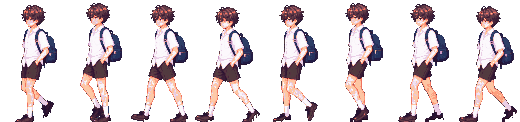
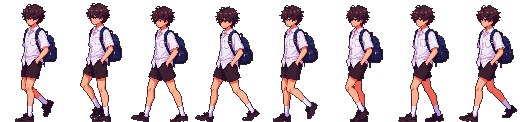
Crisper walk sprite: real idle colours, outline, intact lower shoes
Downscale by sampling cell centres instead of averaging (no blur), snap
pixels to the idle sprite's colours without boosting, redraw a 1px
outline, and squash each shoe as a whole (--shoe-scale) so soles stay
intact and in proportion.

Claude-Session: https://claude.ai/code/session_011NAKRUA9btL4iodwTEM3Dh

diff --git a/tools/import_walk_video.py b/tools/import_walk_video.py
@@ -2,13 +2,13 @@
 
 The video should show the character walking in place (camera fixed). The script
 takes one walk cycle, samples N frames from it, keys out the green, scales the
-frames down to the game's character height and matches their colours to an
-existing sprite (histogram matching per channel, then snapping to its palette),
-because generated video usually comes out darker and flatter than the still image.
+frames down to the game's character height (sampling the centre of each pixel
+cell, so edges stay crisp), matches their brightness to an existing sprite and
+snaps every pixel to that sprite's real colours, then redraws a 1px outline.
 
 Usage:
   python3 tools/import_walk_video.py VIDEO OUT.png --start 24 --cycle 32 --frames 8 \\
-      --height 122 --palette assets/characters/hero_uniform.png
+      --height 122 --palette assets/characters/hero_uniform.png --shoe-scale 0.7
 """
 import argparse
 import subprocess
@@ -24,42 +24,110 @@ def is_green(rgb):
     return (g > 120) & (g > r * 1.35) & (g > b * 1.35)
 
 
-def match_histograms(pixels, reference):
-    """Remap each RGB channel of `pixels` (N,3) so its distribution matches `reference` (M,3)."""
+def label(mask):
+    """4-connected component labelling (flood fill), like scipy.ndimage.label."""
+    labels = np.zeros(mask.shape, int)
+    n = 0
+    for y, x in zip(*np.nonzero(mask)):
+        if labels[y, x]:
+            continue
+        n += 1
+        stack = [(y, x)]
+        labels[y, x] = n
+        while stack:
+            cy, cx = stack.pop()
+            for ny, nx in ((cy + 1, cx), (cy - 1, cx), (cy, cx + 1), (cy, cx - 1)):
+                if 0 <= ny < mask.shape[0] and 0 <= nx < mask.shape[1] and mask[ny, nx] and not labels[ny, nx]:
+                    labels[ny, nx] = n
+                    stack.append((ny, nx))
+    return labels, n
+
+
+def squash_shoes(rgba, factor, band=16):
+    """Make chunky shoes lower: every shoe (dark blob near the bottom) is resampled
+    to `factor` of its height, anchored at the ankle, so its shape stays intact.
+    Returns (new rgba, rows freed at the bottom of the planted foot)."""
+    h, w = rgba.shape[:2]
+    out = rgba.copy()
+    region = np.zeros((h, w), bool)
+    region[h - band:] = True
+    dark = (rgba[..., :3].max(axis=2) < 110) & (rgba[..., 3] > 0) & region
+    labels, n = label(dark)
+    lowest = 0
+    for i in range(1, n + 1):
+        ys, xs = np.where(labels == i)
+        if len(ys) < 12:
+            continue
+        y0, y1, x0, x1 = ys.min(), ys.max() + 1, xs.min(), xs.max() + 1
+        blob = rgba[y0:y1, x0:x1].copy()
+        blob[labels[y0:y1, x0:x1] != i] = 0
+        nh = max(2, round((y1 - y0) * factor))
+        rows = (np.arange(nh) * (y1 - y0) / nh).astype(int)
+        small = blob[rows]
+        out[y0:y1, x0:x1][labels[y0:y1, x0:x1] == i] = 0
+        tgt = out[y0:y0 + nh, x0:x1]
+        m = small[..., 3] > 0
+        tgt[m] = small[m]
+        lowest = max(lowest, y0 + nh - 1)
+    shift = (h - 1) - lowest
+    shifted = np.zeros_like(out)
+    if shift > 0:
+        shifted[shift:] = out[:h - shift]
+        return shifted, shift
+    return out, 0
+
+
+def match_luminance(pixels, reference):
+    """Match the brightness distribution only (keeps each pixel's hue and saturation)."""
+    lum = lambda p: p @ np.array([0.299, 0.587, 0.114])
+    src, ref = lum(pixels), np.sort(lum(reference))
+    order = np.argsort(src)
+    ranks = np.empty_like(order)
+    ranks[order] = np.arange(len(src))
+    target = ref[(ranks * (len(ref) - 1) / max(1, len(src) - 1)).astype(int)]
+    gain = target / np.maximum(src, 1.0)
+    return np.clip(pixels * gain[:, None], 0, 255)
+
+
+def nearest_colours(pixels, palette):
+    """Snap each pixel to the closest colour that really occurs in the reference sprite."""
     out = np.empty_like(pixels)
-    for c in range(3):
-        src = pixels[:, c]
-        order = np.argsort(src)
-        ranks = np.empty_like(order)
-        ranks[order] = np.arange(len(src))
-        ref_sorted = np.sort(reference[:, c])
-        out[:, c] = ref_sorted[(ranks * (len(ref_sorted) - 1) / max(1, len(src) - 1)).astype(int)]
+    for k in range(0, len(pixels), 4096):
+        chunk = pixels[k:k + 4096]
+        d = ((chunk[:, None, :] - palette[None, :, :]) ** 2).sum(2)
+        out[k:k + 4096] = palette[d.argmin(1)]
     return out
 
 
-def flatten_soles(rgba, trim, search_rows=16):
-    """Make chunky/heeled shoes flat: in every column, cut `trim` pixels off the
-    bottom of the shoe, redraw a thin dark sole line, then shift the frame down."""
-    h, w = rgba.shape[:2]
-    out = rgba.copy()
-    dark = (out[..., :3].max(axis=2) < 95) & (out[..., 3] > 0)
-    top = h - search_rows
-    for x in range(w):
-        col = dark[top:, x]
-        if not col.any():
-            continue
-        bottom = top + int(np.where(col)[0].max())
-        run_top = bottom
-        while run_top - 1 >= top and dark[run_top - 1, x]:
-            run_top -= 1
-        if bottom - run_top + 1 <= trim + 2:
-            continue  # too thin to be a sole (toe tip, lace)
-        out[bottom - trim + 1:bottom + 1, x] = 0
-        new_bottom = bottom - trim
-        out[new_bottom, x, :3] = (out[new_bottom, x, :3] * 0.55).astype(out.dtype)  # sole edge
-    shifted = np.zeros_like(out)
-    shifted[trim:] = out[:h - trim]
-    return shifted
+def add_outline(rgba, colour_from=None, strength=0.62):
+    """Darken the outer silhouette pixels into a 1px outline like the idle sprite."""
+    a = rgba[..., 3] > 0
+    inner = a & np.roll(a, 1, 0) & np.roll(a, -1, 0) & np.roll(a, 1, 1) & np.roll(a, -1, 1)
+    edge = a & ~inner
+    out = rgba.astype(float).copy()
+    tint = np.array(colour_from if colour_from is not None else (60, 34, 52), float)
+    out[edge, :3] = out[edge, :3] * (1 - strength) + tint * strength
+    return out.astype(np.uint8)
+
+
+def block_sample(img, mask, out_w, out_h):
+    """Downscale by taking the median of the centre of each target cell (no averaging
+    across cell borders), so outlines and pixel edges stay crisp."""
+    h, w = img.shape[:2]
+    sx, sy = w / out_w, h / out_h
+    q = max(1, int(min(sx, sy) * 0.22))
+    rgb = np.zeros((out_h, out_w, 3))
+    alpha = np.zeros((out_h, out_w), bool)
+    for j in range(out_h):
+        cy = int((j + 0.5) * sy)
+        for i in range(out_w):
+            cx = int((i + 0.5) * sx)
+            ys, xs = slice(max(0, cy - q), cy + q + 1), slice(max(0, cx - q), cx + q + 1)
+            m = mask[ys, xs]
+            alpha[j, i] = m.mean() >= 0.5
+            if alpha[j, i]:
+                rgb[j, i] = np.median(img[ys, xs][m], axis=0)
+    return rgb, alpha
 
 
 def main():
@@ -71,9 +139,9 @@ def main():
     ap.add_argument("--frames", type=int, default=8, help="frames to keep from the cycle")
     ap.add_argument("--height", type=int, default=122, help="character height in game pixels")
     ap.add_argument("--palette", help="sprite whose colours the frames are snapped to")
-    ap.add_argument("--flatten-soles", type=int, default=0,
-                    help="trim this many pixels off the bottom of each shoe (thick soles/heels) "
-                         "and move the frame down by the same amount so the feet stay on the ground")
+    ap.add_argument("--shoe-scale", type=float, default=1.0,
+                    help="squash each shoe to this fraction of its height (e.g. 0.7 for chunky "
+                         "AI shoes -> flat school shoes); the frame moves down so feet stay grounded")
     args = ap.parse_args()
 
     with tempfile.TemporaryDirectory() as tmp:
@@ -90,13 +158,6 @@ def main():
     scale = args.height / (y1 - y0)
     out_w = round((x1 - x0) * scale)
 
-    pal_img = None
-    if args.palette:
-        # Representative colours of the reference sprite (opaque pixels only)
-        src = np.asarray(Image.open(args.palette).convert("RGBA"))
-        colours = src[..., :3][src[..., 3] > 0].reshape(1, -1, 3)
-        pal_img = Image.fromarray(colours.astype(np.uint8), "RGB").quantize(colors=48, method=Image.Quantize.MEDIANCUT)
-
     smalls = []
     for rgb, mask in zip(frames, masks):
         rgb = rgb[y0:y1, x0:x1].copy()
@@ -104,35 +165,33 @@ def main():
         # despill green fringe
         rgb[..., 1] = np.where(rgb[..., 1] > np.maximum(rgb[..., 0], rgb[..., 2]),
                                np.maximum(rgb[..., 0], rgb[..., 2]), rgb[..., 1])
-        img = Image.fromarray(rgb.clip(0, 255).astype(np.uint8), "RGB")
-        alpha = Image.fromarray((mask * 255).astype(np.uint8), "L")
-        small = np.asarray(img.resize((out_w, args.height), Image.BOX)).astype(float)
-        small_a = np.asarray(alpha.resize((out_w, args.height), Image.BOX)) >= 128
+        small, small_a = block_sample(rgb, mask, out_w, args.height)
         smalls.append((small, small_a))
 
+    edge_colour = None
     if args.palette:
-        # One colour mapping for all frames (so they do not flicker), learned from
-        # the character pixels of every frame against the reference sprite
+        # One brightness mapping for all frames (no flicker); hue and saturation are kept,
+        # then every pixel snaps to the nearest colour that exists in the reference sprite
         ref = np.asarray(Image.open(args.palette).convert("RGBA")).astype(float)
-        ref_px = ref[..., :3][ref[..., 3] > 0]
+        opaque = ref[..., 3] > 0
+        ref_px = ref[..., :3][opaque]
         all_px = np.concatenate([sm[a] for sm, a in smalls])
-        mapped = match_histograms(all_px, ref_px)
+        mapped = nearest_colours(all_px, np.unique(ref_px, axis=0))
         k = 0
         for sm, a in smalls:
             n = int(a.sum())
             sm[a] = mapped[k:k + n]
             k += n
+        inner = opaque & np.roll(opaque, 1, 0) & np.roll(opaque, -1, 0) & np.roll(opaque, 1, 1) & np.roll(opaque, -1, 1)
+        edge_colour = ref[..., :3][opaque & ~inner].mean(0) * 0.6
 
     sheet = Image.new("RGBA", (out_w * args.frames, args.height), (0, 0, 0, 0))
     for i, (sm, a) in enumerate(smalls):
-        small = Image.fromarray(sm.clip(0, 255).astype(np.uint8), "RGB")
-        if pal_img is not None:
-            small = small.quantize(palette=pal_img, dither=Image.Dither.NONE).convert("RGB")
-        frame = small.convert("RGBA")
-        frame.putalpha(Image.fromarray((a * 255).astype(np.uint8), "L"))
-        if args.flatten_soles:
-            frame = Image.fromarray(flatten_soles(np.asarray(frame), args.flatten_soles), "RGBA")
-        sheet.paste(frame, (i * out_w, 0))
+        frame = np.dstack([sm.clip(0, 255), a * 255]).astype(np.uint8)
+        if args.shoe_scale < 1.0:
+            frame, _ = squash_shoes(frame, args.shoe_scale)
+        frame = add_outline(frame, edge_colour)
+        sheet.paste(Image.fromarray(frame, "RGBA"), (i * out_w, 0))
     sheet.save(args.out)
     print(f"{args.frames} frames of {out_w}x{args.height} -> {args.out} (crop {x0},{y0} {x1 - x0}x{y1 - y0})")
 

diff --git a/README.md b/README.md
@@ -66,12 +66,13 @@ assets/textures/         texture พิกเซลสำหรับฉาก H
 
 ```
 python3 tools/import_walk_video.py art_source/hero_walk_greenscreen.mp4 assets/characters/hero_walk.png \
-    --start 20 --cycle 30 --frames 8 --height 122 --palette assets/characters/hero_uniform.png --flatten-soles 3
+    --start 20 --cycle 30 --frames 8 --height 122 --palette assets/characters/hero_uniform.png --shoe-scale 0.8
 ```
 
 วิดีโอต้องเป็นตัวละครเดินอยู่กับที่ (กล้องนิ่ง) สคริปต์ตัดหนึ่งรอบก้าว (`--cycle` เฟรม) เลือกมา 8 เฟรม
-ลบพื้นเขียว ย่อให้สูงเท่าภาพยืน และใช้สีชุดเดียวกับภาพยืน (`--palette`)
-`--flatten-soles 3` ตัดพื้นรองเท้าที่หนา/มีส้นออก 3 พิกเซล (รองเท้านักเรียนพื้นเรียบ) แล้วเลื่อนภาพลงให้เท้ายังแตะพื้น
+ลบพื้นเขียว ย่อให้สูงเท่าภาพยืนโดยหยิบสีกลางช่องพิกเซล (ไม่เฉลี่ย ภาพจึงคม ไม่เบลอ)
+จับทุกพิกเซลเข้าสีที่มีจริงในภาพยืน (`--palette`, ไม่เร่งสี) แล้ววาดเส้นขอบ 1px ด้วยสีขอบของภาพยืน
+`--shoe-scale 0.8` ย่อรองเท้าแต่ละข้างลงเหลือ 80% ของความสูง (ทั้งก้อน รูปทรงไม่ขาด) ยึดที่ข้อเท้า แล้วเลื่อนภาพลงให้เท้าแตะพื้น
 - กล้อง (`scene_camera.gd`) ตามตัวละคร (`follow`) และ `camera_x` ในบทกลายเป็นระยะเลื่อนกล้องออกจากตัวละคร
 
 **ความเร็วแต่ละชั้น (parallax) ตามระยะจริง:** ตัวละครอยู่ห่างกล้อง ~4 ม. ชั้นที่อยู่ห่าง D เมตรจะเลื่อน ≈ 4/D
